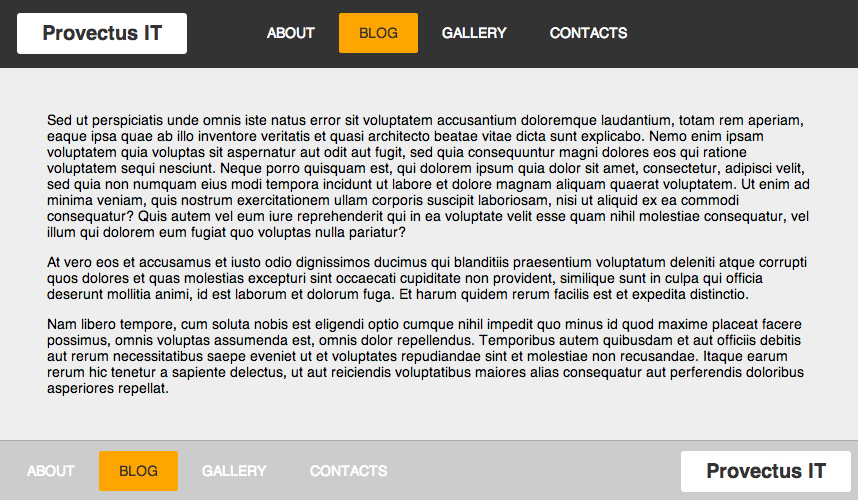
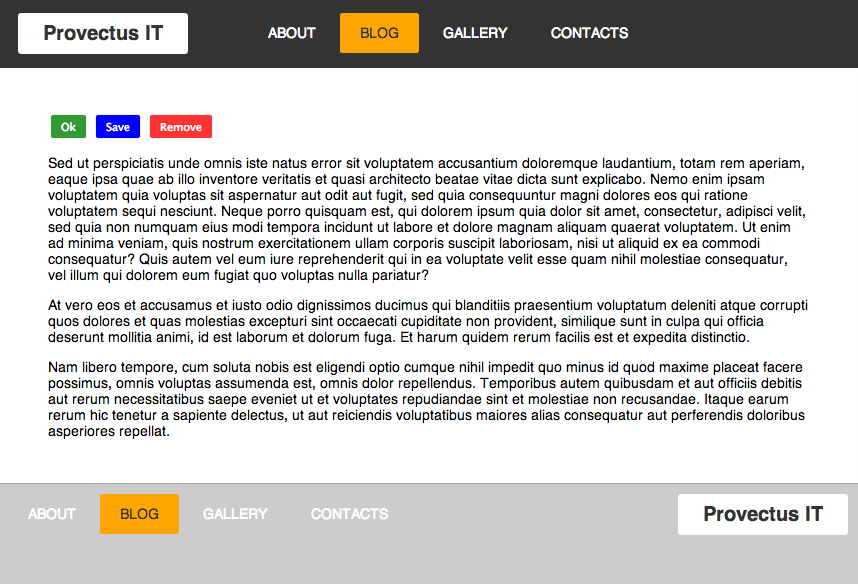
Add buttons

diff --git a/source/index.html b/source/index.html
@@ -32,6 +32,11 @@
         </div>
         <div class="b-content">
             <p>
+                <button class="s-btn">Ok</button>
+                <button class="s-btn__success active">Save</button>
+                <button class="s-btn__danger">Remove</button>
+            </p>
+            <p>
                 Sed ut perspiciatis unde omnis iste natus error sit voluptatem accusantium doloremque laudantium,
                 totam rem aperiam, eaque ipsa quae ab illo inventore veritatis et quasi architecto beatae vitae
                 dicta sunt explicabo. Nemo enim ipsam voluptatem quia voluptas sit aspernatur aut odit aut fugit,

diff --git a/source/css/application.css b/source/css/application.css
@@ -3,7 +3,7 @@ body {
 }
 
 .l-main {
-    background: #eee;
+    background: #fff;
     margin: 0;
     font-family: Helvetica, Arial, sans-serif;
 }
@@ -78,4 +78,28 @@ body {
 
 .b-footer .b-footer__logo {
     float: right
+}
+
+[class^="s-btn"],
+[class*=" s-btn"] {
+    border: 1px solid #eee;
+    background: green;
+    border-radius: 3px;
+    opacity: 0.8;
+    color: #fff;
+    cursor: pointer;
+    padding: 5px 10px;
+}
+
+[class^="s-btn"].active,
+[class*=" s-btn"].active {
+    opacity: 1;
+}
+
+.s-btn__success {
+    background: blue;
+}
+
+.s-btn__danger {
+    background: red;
 }
